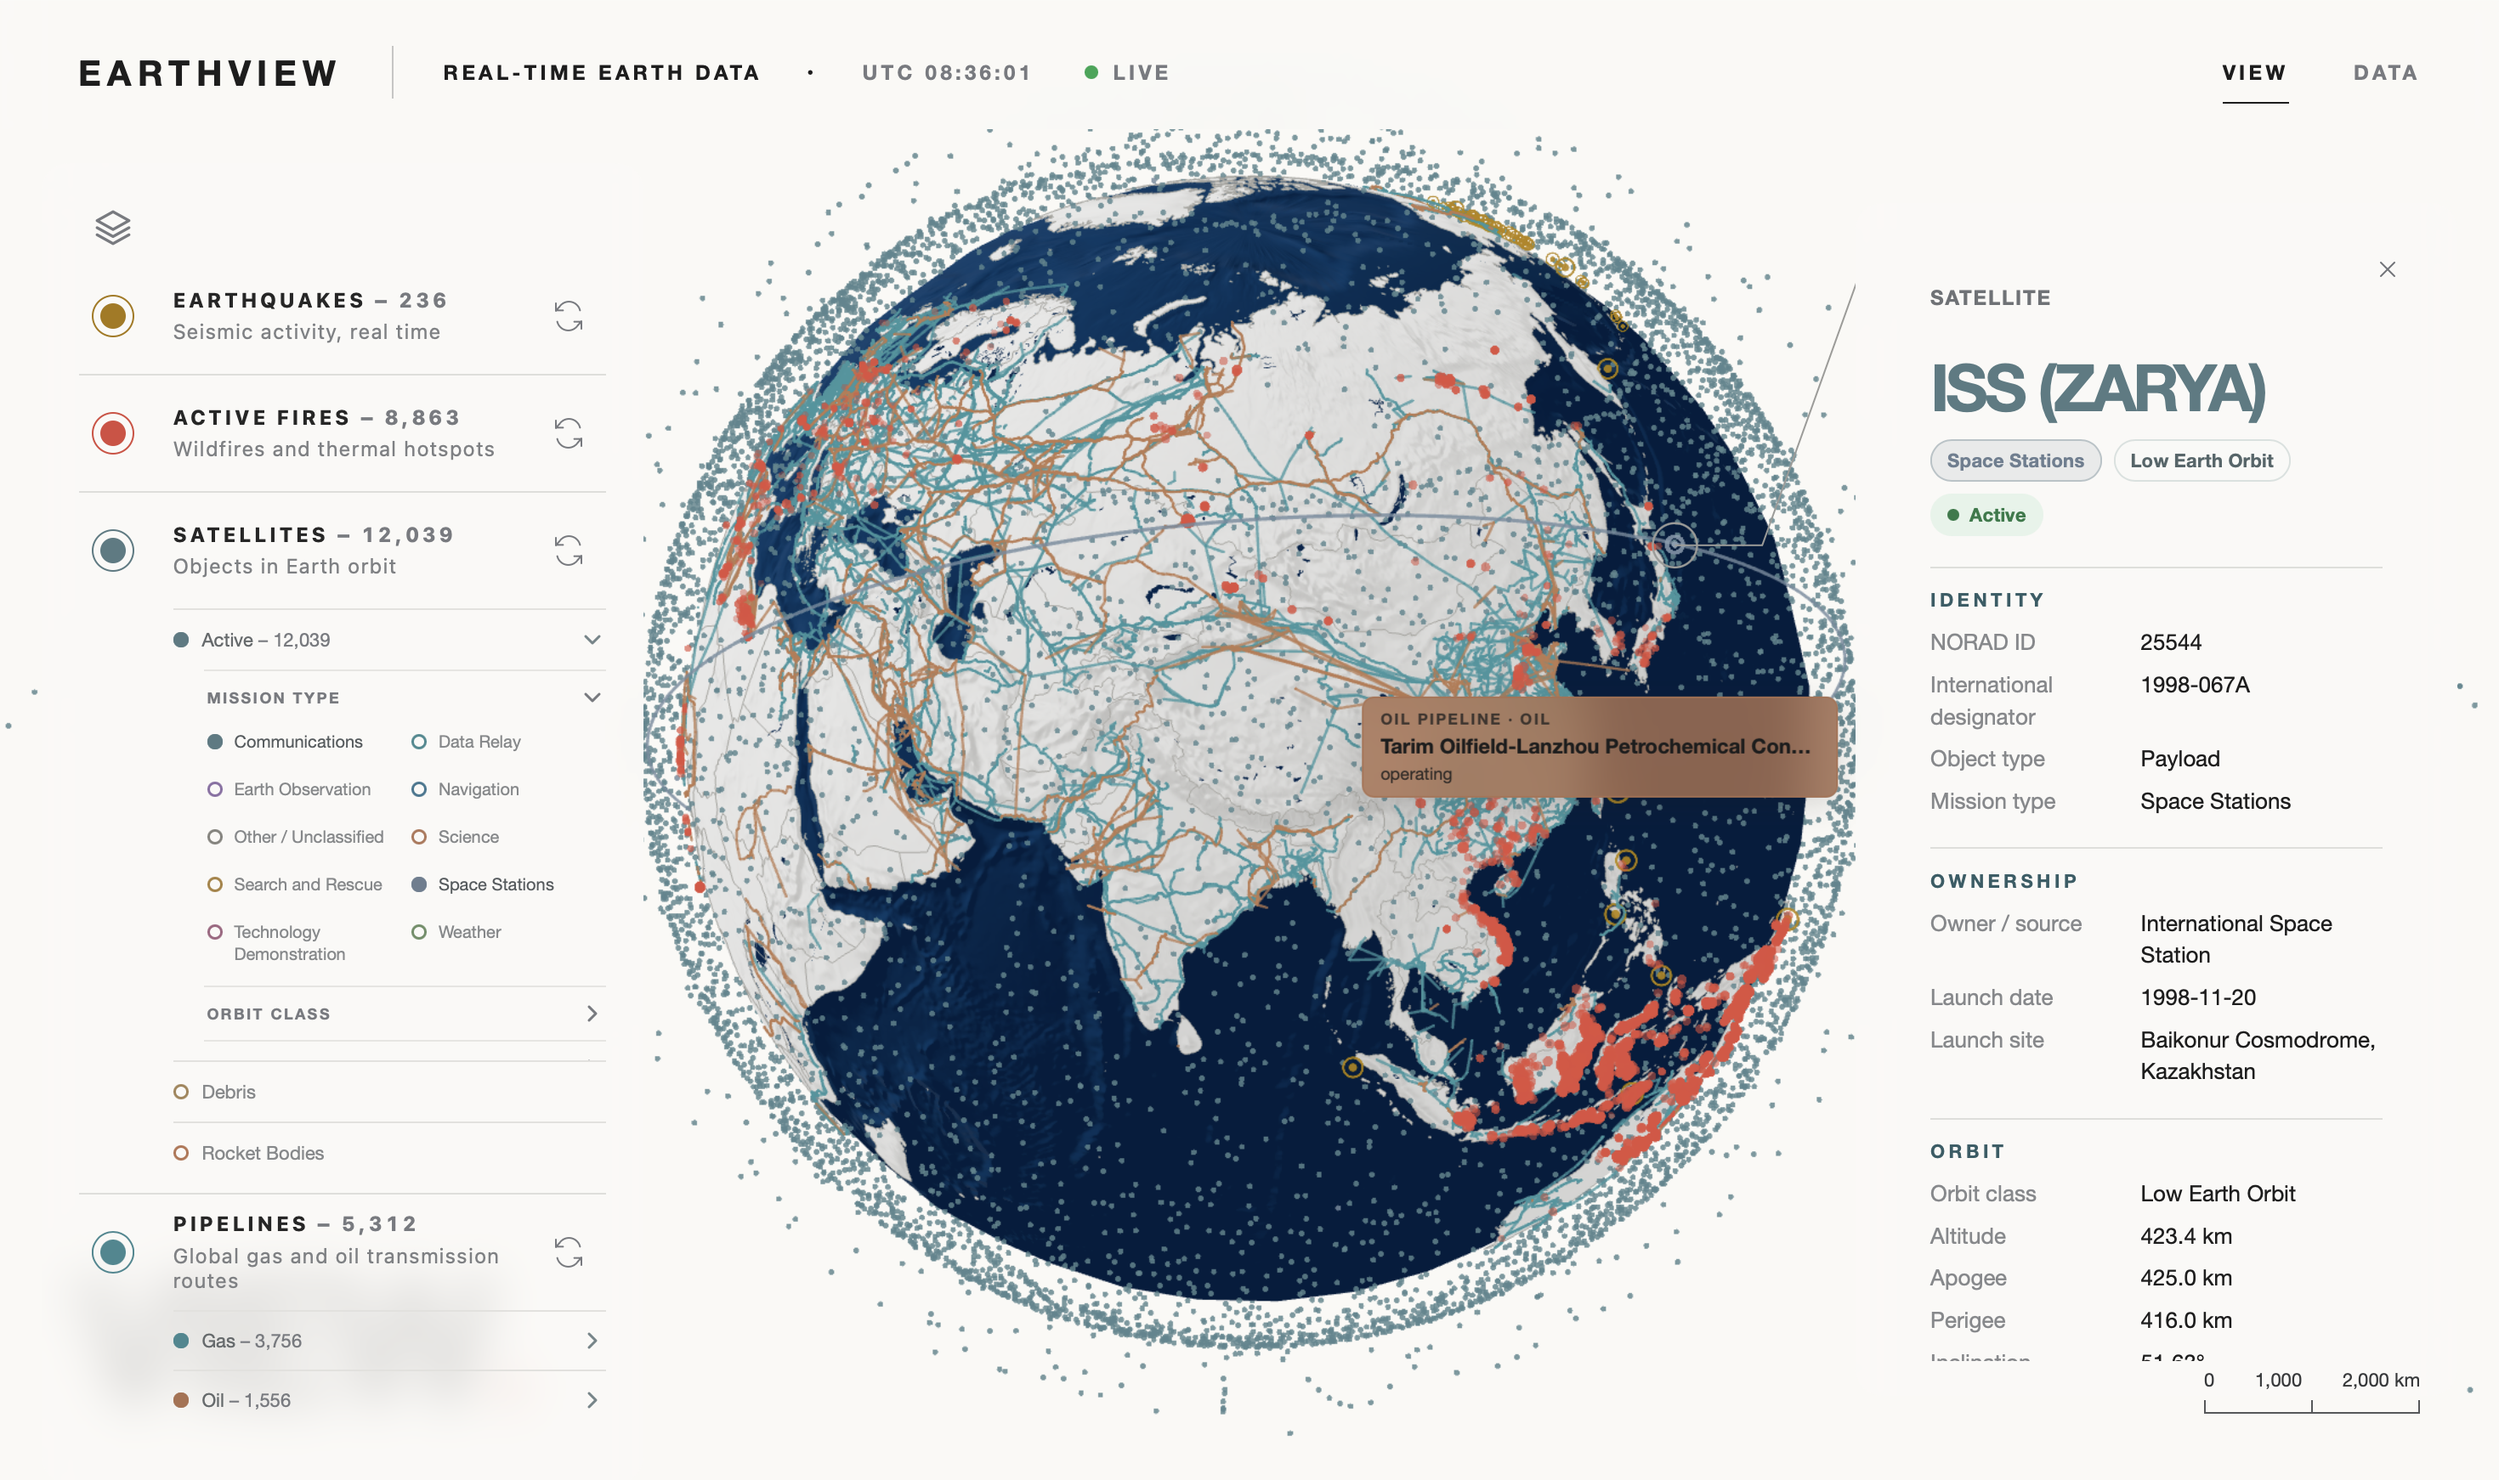
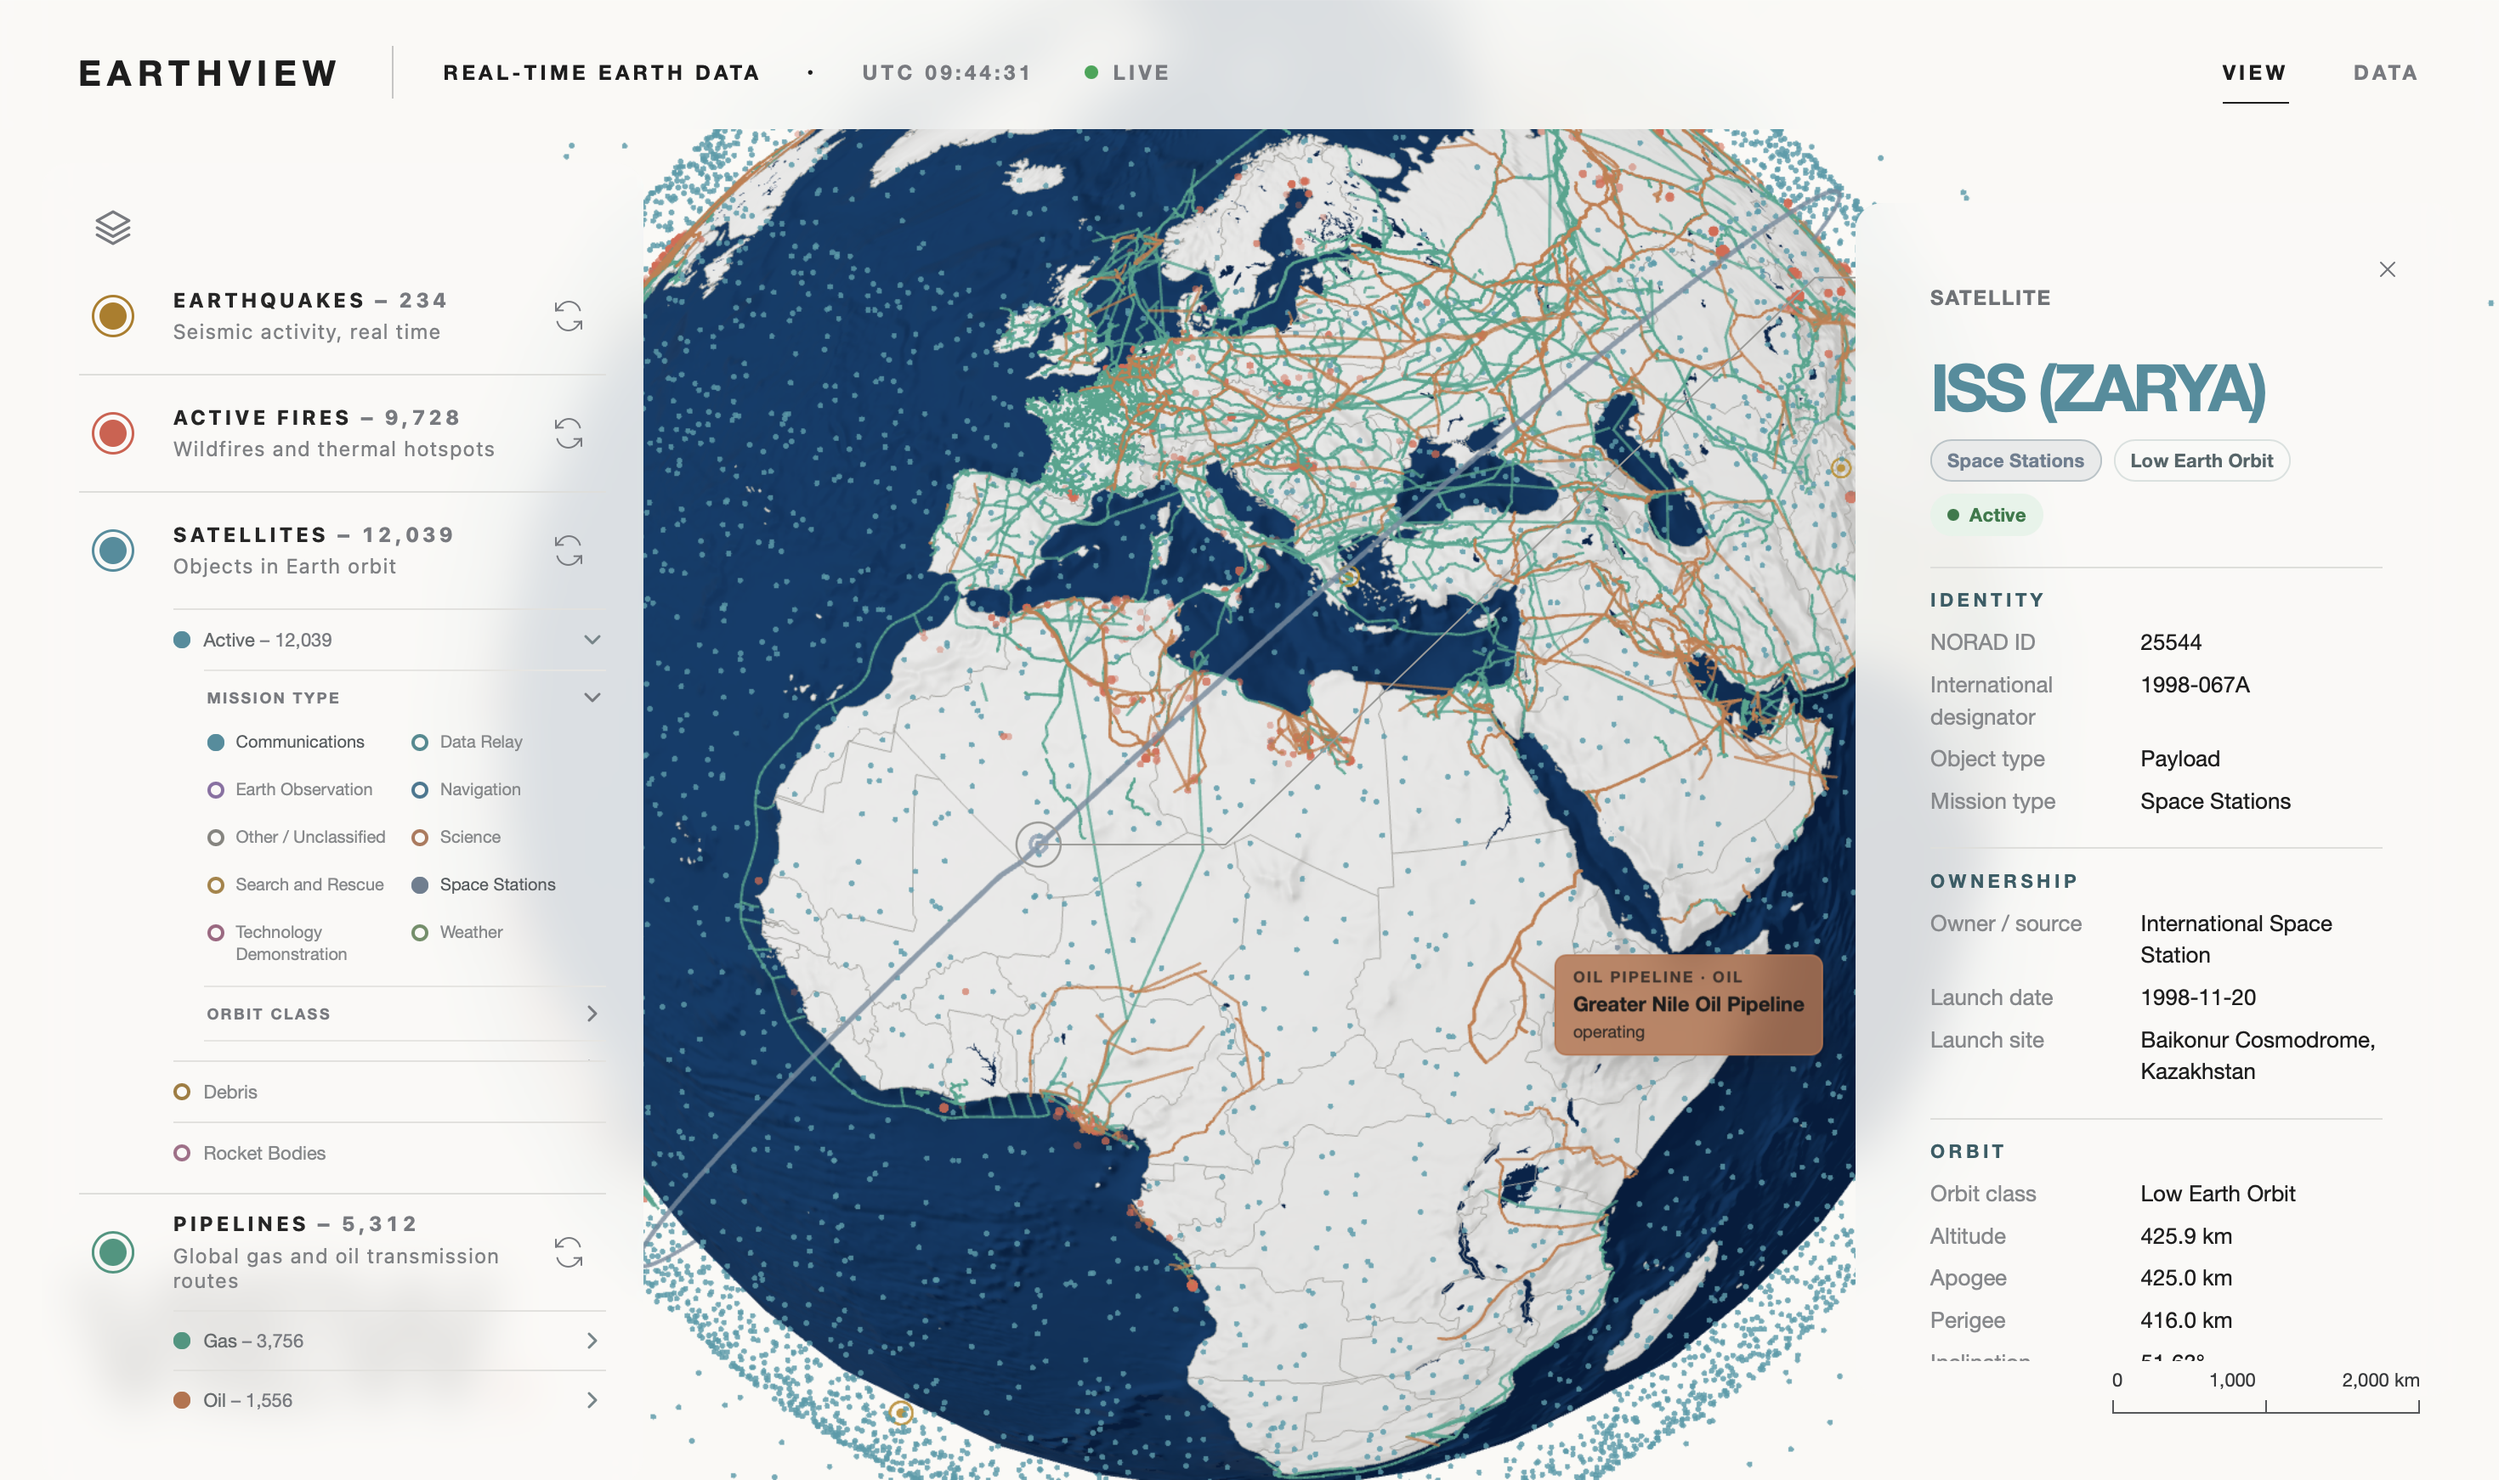
update colors of the data points

diff --git a/frontend/styles/controls.css b/frontend/styles/controls.css
@@ -30,9 +30,9 @@
 
 .layer-toggle-pipelines { --layer-color: var(--color-pipeline-gas); }
 
-.layer-toggle-circle { position: absolute; top: 50%; left: 0; display: grid; flex: none; place-items: center; width: var(--layer-control-marker-size); height: var(--layer-control-marker-size); box-sizing: border-box; border: 1px solid var(--layer-color); border-radius: 50%; background: transparent; transform: translateY(-50%); }
+.layer-toggle-circle { position: absolute; top: 50%; left: 0; display: grid; flex: none; place-items: center; width: var(--layer-control-marker-size); height: var(--layer-control-marker-size); box-sizing: border-box; border: 1.5px solid var(--layer-color); border-radius: 50%; background: transparent; transform: translateY(-50%); }
 
-.layer-toggle-circle::after { width: 15px; height: 15px; border-radius: 50%; background: transparent; content: ""; }
+.layer-toggle-circle::after { width: 16px; height: 16px; border-radius: 50%; background: transparent; content: ""; }
 
 .layer-toggle[data-visible="true"] .layer-toggle-circle::after { background: var(--layer-color); }
 
@@ -93,7 +93,7 @@
 
 .pipeline-choice[aria-pressed="true"] { color: var(--color-orbital-label-active); }
 
-.pipeline-marker { width: 9px; height: 9px; flex: none; border-radius: 50%; background: transparent; box-shadow: inset 0 0 0 1.5px var(--pipeline-color); }
+.pipeline-marker { width: 10px; height: 10px; flex: none; border-radius: 50%; background: transparent; box-shadow: inset 0 0 0 2px var(--pipeline-color); }
 
 .pipeline-choice[aria-pressed="true"] .pipeline-marker { background: var(--pipeline-color); }
 
@@ -125,7 +125,7 @@
 
 .orbital-category-choice[aria-pressed="true"] { color: var(--color-orbital-label-active); }
 
-.orbital-category-marker { width: 9px; height: 9px; flex: none; border-radius: 50%; background: transparent; box-shadow: inset 0 0 0 1.5px var(--orbital-color); }
+.orbital-category-marker { width: 10px; height: 10px; flex: none; border-radius: 50%; background: transparent; box-shadow: inset 0 0 0 2px var(--orbital-color); }
 
 .orbital-category-choice[aria-pressed="true"] .orbital-category-marker { background: var(--orbital-color); }
 
@@ -281,7 +281,7 @@
   .pipeline-options { margin-left: calc(34px + var(--layer-control-marker-inset)); }
   .orbital-filter-groups { max-height: 170px; }
   .event-details { top: auto; right: 20px; bottom: 175px; width: min(255px, calc(100vw - 40px)); }
-  .inspection-prompt { top: 295px; right: 20px; width: min(42vw, 190px); }
+  .inspection-prompt { z-index: 2; top: 430px; right: 20px; width: min(190px, calc(100vw - 40px)); border-radius: 10px; padding: 11px 12px; background: var(--color-panel); -webkit-backdrop-filter: blur(14px); backdrop-filter: blur(14px); }
   .inspection-prompt h2 { font-size: clamp(16px, 4.5vw, 20px); }
   .inspection-prompt p { margin-top: 9px; font-size: 11px; }
   .inspection-prompt .inspection-scale-note { margin-top: 7px; font-size: 9px; }

diff --git a/frontend/styles/design-tokens.css b/frontend/styles/design-tokens.css
@@ -41,13 +41,13 @@
   --color-link-decoration: #aaaaaa;
   --color-ocean-blue: #0a3554;
   --color-country-line: #969590;
-  --color-earthquake: #a87800;
-  --color-fire: #d94a3e;
-  --color-satellite: #587b83;
-  --color-pipeline-gas: #408891;
-  --color-pipeline-oil: #ad704f;
-  --color-debris: #a58558;
-  --color-rocket-body: #b87553;
+  --color-earthquake: #b27c14;
+  --color-fire: #d95b4b;
+  --color-satellite: #438e9e;
+  --color-pipeline-gas: #37977f;
+  --color-pipeline-oil: #bd7048;
+  --color-debris: #a47b38;
+  --color-rocket-body: #a66e89;
   --color-orbital-mission-navigation: #3f7892;
   --color-orbital-mission-weather: #6d8f67;
   --color-orbital-mission-earth-observation: #8d70a5;

diff --git a/frontend/styles/layout.css b/frontend/styles/layout.css
@@ -99,6 +99,6 @@ a { color: inherit; }
   .utc-clock, .live-status { font-size: 9px; }
   .live-dot { width: 6px; height: 6px; }
   .stage-nav { gap: 16px; font-size: 10px; }
-  .stage-title { bottom: 25px; left: 20px; font-size: clamp(56px, 17vw, 76px); }
-  .map-scale { right: 72px; bottom: 33px; font-size: 9px; }
+  .stage-title { bottom: 78px; left: 20px; font-size: clamp(56px, 17vw, 76px); }
+  .map-scale { right: 20px; bottom: 24px; font-size: 9px; }
 }
